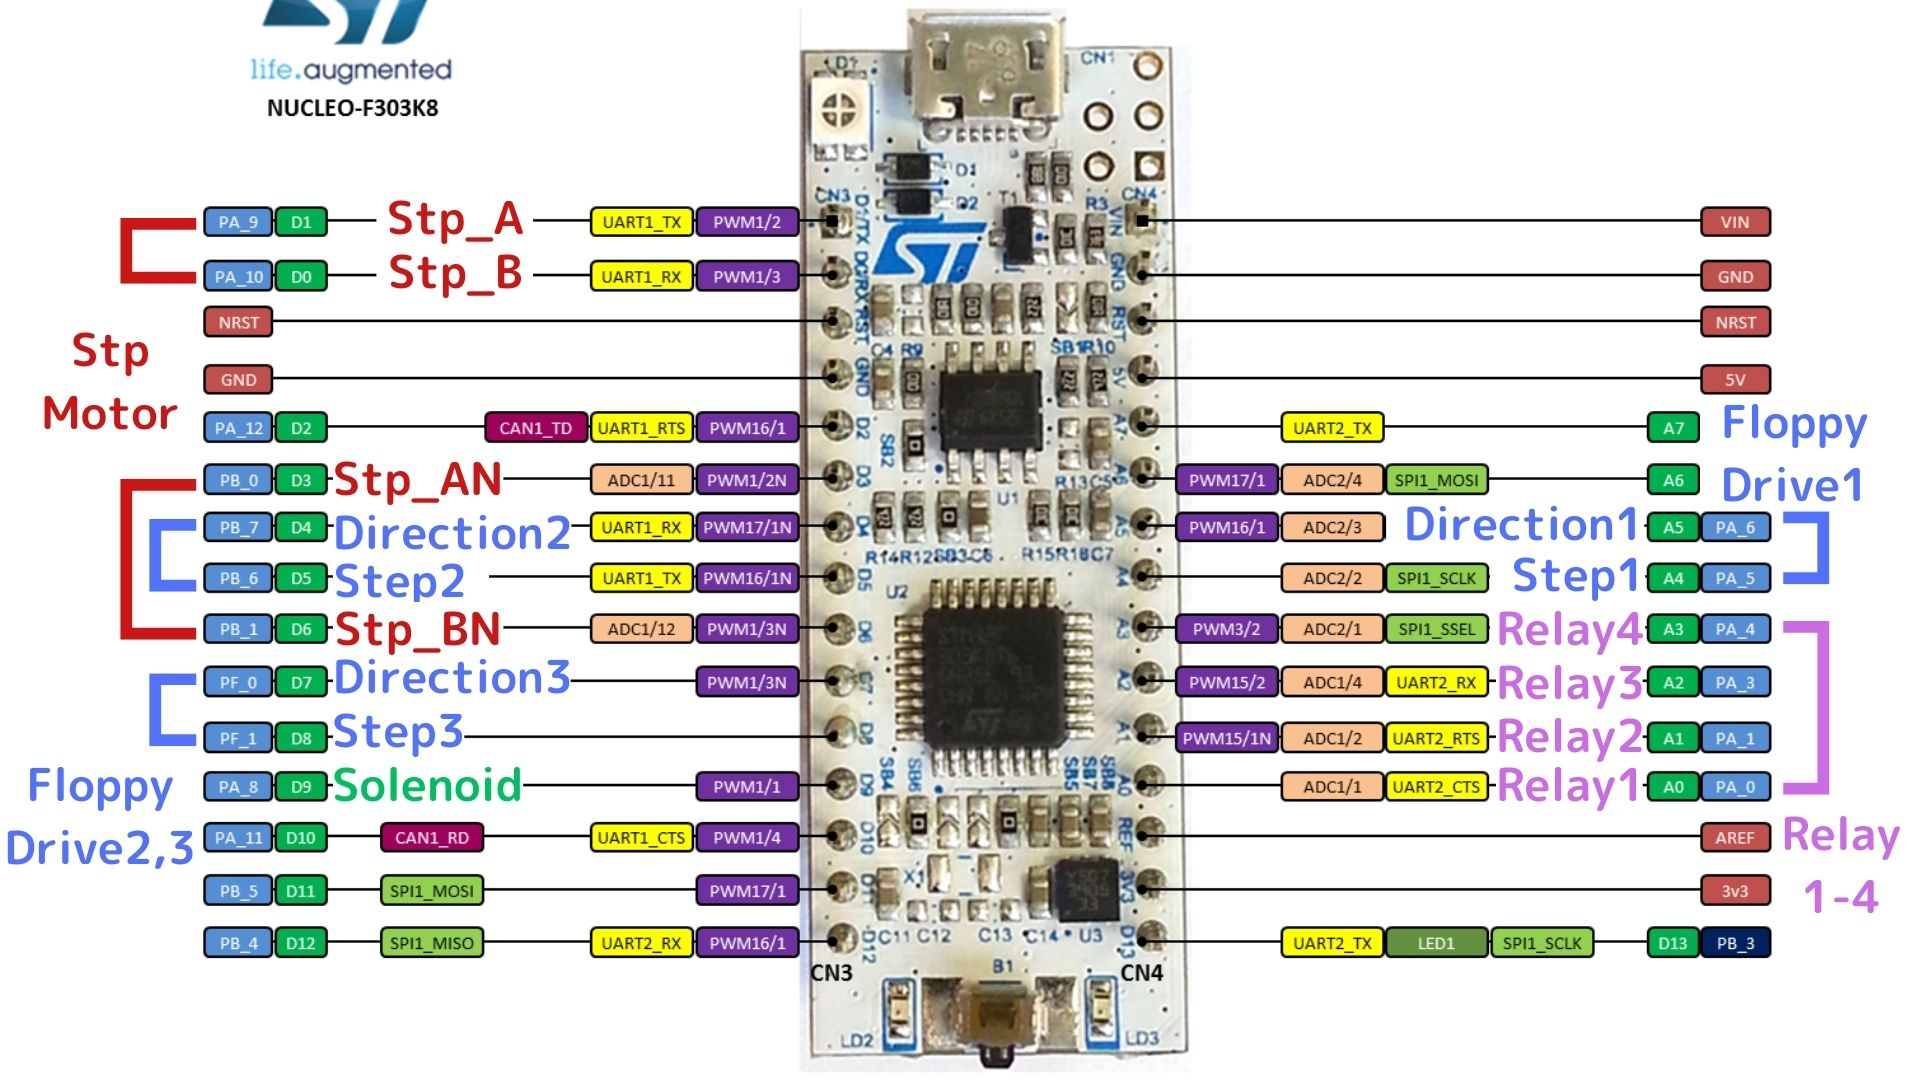
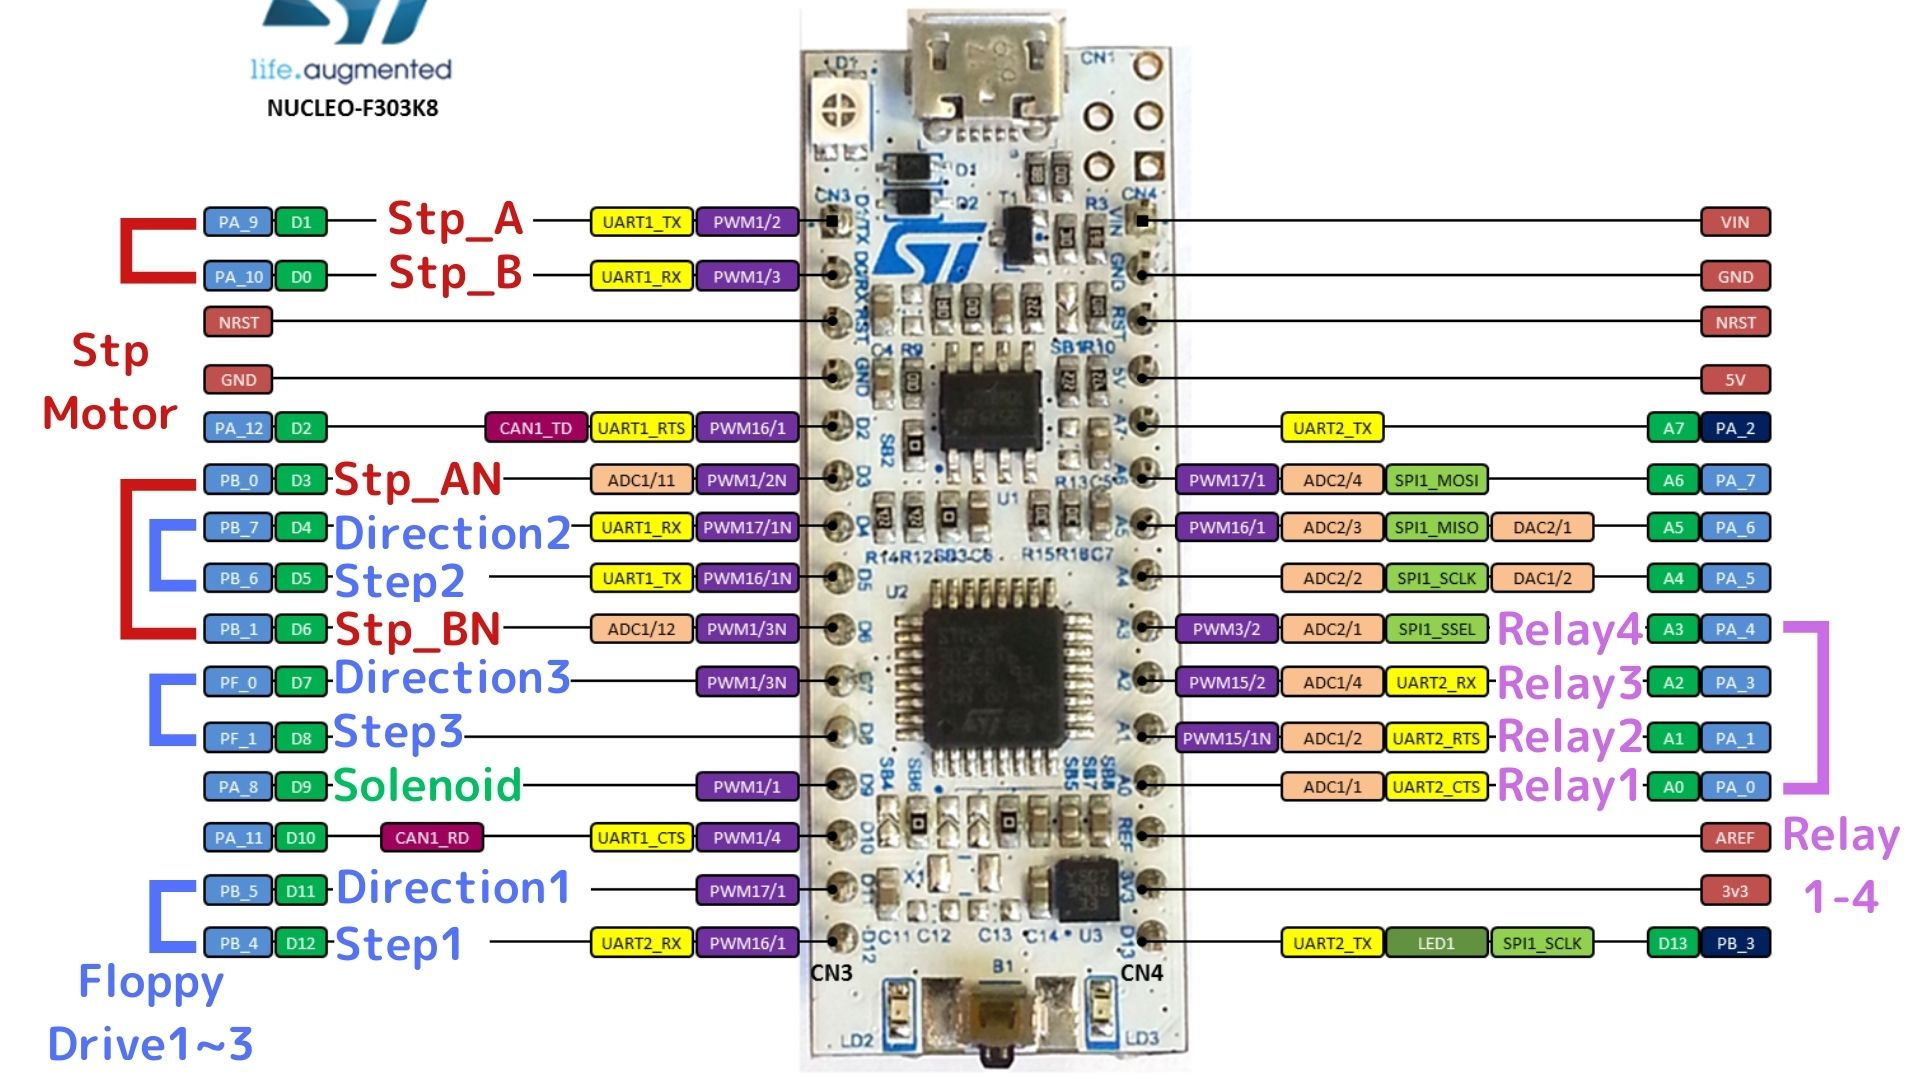
edit

diff --git a/Hardware/F303K8/303K8Firm/Core/Src/main.c b/Hardware/F303K8/303K8Firm/Core/Src/main.c
@@ -301,6 +301,9 @@ int main(void)
   for(uint8_t i = 0; i < RelayNum; i++){
 	  HAL_GPIO_WritePin(relayPort[i], relayPin[i], GPIO_PIN_RESET);
   }
+  for(uint8_t i = 0; i < FloppyNum * 2; i++){
+	  HAL_GPIO_WritePin(floppyPort[i], floppyPin[i], GPIO_PIN_RESET);
+  }
 
   //Melody by Solenoid and Stp_Motor
   times[0] = htim1;
@@ -628,11 +631,10 @@ static void MX_GPIO_Init(void)
   HAL_GPIO_WritePin(GPIOF, Direction3_Pin|Step3_Pin, GPIO_PIN_RESET);
 
   /*Configure GPIO pin Output Level */
-  HAL_GPIO_WritePin(GPIOA, Relay1_Pin|Relay2_Pin|Relay3_Pin|Relay4_Pin
-                          |Step1_Pin|Direction1_Pin, GPIO_PIN_RESET);
+  HAL_GPIO_WritePin(GPIOA, Relay1_Pin|Relay2_Pin|Relay3_Pin|Relay4_Pin, GPIO_PIN_RESET);
 
   /*Configure GPIO pin Output Level */
-  HAL_GPIO_WritePin(GPIOB, Step2_Pin|Direction2_Pin, GPIO_PIN_RESET);
+  HAL_GPIO_WritePin(GPIOB, Step1_Pin|Direction1_Pin|Step2_Pin|Direction2_Pin, GPIO_PIN_RESET);
 
   /*Configure GPIO pins : Direction3_Pin Step3_Pin */
   GPIO_InitStruct.Pin = Direction3_Pin|Step3_Pin;
@@ -641,17 +643,15 @@ static void MX_GPIO_Init(void)
   GPIO_InitStruct.Speed = GPIO_SPEED_FREQ_LOW;
   HAL_GPIO_Init(GPIOF, &GPIO_InitStruct);
 
-  /*Configure GPIO pins : Relay1_Pin Relay2_Pin Relay3_Pin Relay4_Pin
-                           Step1_Pin Direction1_Pin */
-  GPIO_InitStruct.Pin = Relay1_Pin|Relay2_Pin|Relay3_Pin|Relay4_Pin
-                          |Step1_Pin|Direction1_Pin;
+  /*Configure GPIO pins : Relay1_Pin Relay2_Pin Relay3_Pin Relay4_Pin */
+  GPIO_InitStruct.Pin = Relay1_Pin|Relay2_Pin|Relay3_Pin|Relay4_Pin;
   GPIO_InitStruct.Mode = GPIO_MODE_OUTPUT_PP;
   GPIO_InitStruct.Pull = GPIO_NOPULL;
   GPIO_InitStruct.Speed = GPIO_SPEED_FREQ_LOW;
   HAL_GPIO_Init(GPIOA, &GPIO_InitStruct);
 
-  /*Configure GPIO pins : Step2_Pin Direction2_Pin */
-  GPIO_InitStruct.Pin = Step2_Pin|Direction2_Pin;
+  /*Configure GPIO pins : Step1_Pin Direction1_Pin Step2_Pin Direction2_Pin */
+  GPIO_InitStruct.Pin = Step1_Pin|Direction1_Pin|Step2_Pin|Direction2_Pin;
   GPIO_InitStruct.Mode = GPIO_MODE_OUTPUT_PP;
   GPIO_InitStruct.Pull = GPIO_NOPULL;
   GPIO_InitStruct.Speed = GPIO_SPEED_FREQ_LOW;

diff --git a/Hardware/F303K8/303K8Firm/Core/Inc/main.h b/Hardware/F303K8/303K8Firm/Core/Inc/main.h
@@ -73,10 +73,6 @@ void Error_Handler(void);
 #define Relay3_GPIO_Port GPIOA
 #define Relay4_Pin GPIO_PIN_4
 #define Relay4_GPIO_Port GPIOA
-#define Step1_Pin GPIO_PIN_5
-#define Step1_GPIO_Port GPIOA
-#define Direction1_Pin GPIO_PIN_6
-#define Direction1_GPIO_Port GPIOA
 #define Stp_Motor_AN_Pin GPIO_PIN_0
 #define Stp_Motor_AN_GPIO_Port GPIOB
 #define Stp_Motor_BN_Pin GPIO_PIN_1
@@ -93,6 +89,10 @@ void Error_Handler(void);
 #define SWCLK_GPIO_Port GPIOA
 #define VCP_RX_Pin GPIO_PIN_15
 #define VCP_RX_GPIO_Port GPIOA
+#define Step1_Pin GPIO_PIN_4
+#define Step1_GPIO_Port GPIOB
+#define Direction1_Pin GPIO_PIN_5
+#define Direction1_GPIO_Port GPIOB
 #define Step2_Pin GPIO_PIN_6
 #define Step2_GPIO_Port GPIOB
 #define Direction2_Pin GPIO_PIN_7
